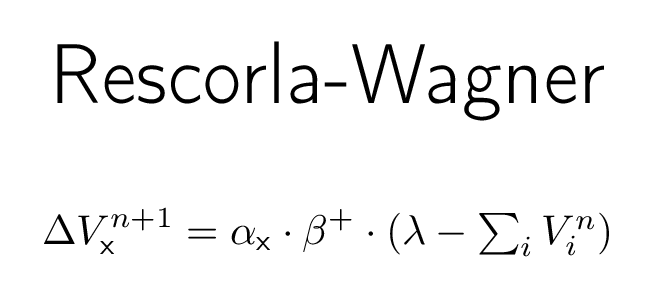
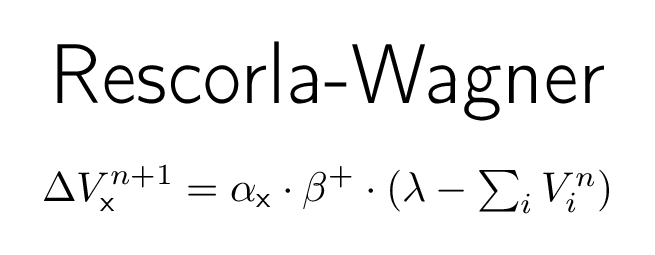
Changing LePelley to MackExtended and fixing some resources.

diff --git a/resources/LePelley.tex b/resources/LePelley.tex
@@ -1,4 +1,4 @@
-\documentclass[border=10pt,varwidth]{standalone}
+\documentclass[border=10pt,varwidth=14cm]{standalone}
 \usepackage[T1]{fontenc}
 \usepackage[utf8]{inputenc}
 \usepackage{amsmath}
@@ -11,37 +11,35 @@
 
 \begin{document}
 \newcommand{\eks}{\textsf{x}}
-\newcommand{\longlambda}{\rlap{$\,\lambda$}\phantom{\big| \rho \big|}}
+\newcommand{\longlambda}{\rlap{$\,\lambda$}\phantom{\left| \rho^n \right|}}
 \newcommand{\longI}{\rlap{$I$}\phantom{E}}
+\newcommand{\VNet}{\mathbb{V}}
 
 \begin{center}
 	\huge
 	\sffamily
 	Le~Pelley
 \end{center}
-
 \begin{gather*}
 	\begin{gathered}
-		\rho = \lambda - \textstyle\sum_i \left( V_i - \overline{V_i} \right) \\
+		\rho^n = \lambda - \textstyle\sum_i \left( V_i - \overline{V_i} \right) \\
 		\begin{aligned}
-			\Delta V_\eks^{n + 1} &= {\alpha^M_\eks}^n \cdot {\alpha^H_\eks}^n \cdot \beta^+ \cdot (1 - V_\eks^n + \overline{V_\eks^n}) \cdot \left| \rho \right| & \text{if } \rho \geq 0 \\
-			 \Delta \overline{V_\eks^{n + 1}} &= {\alpha^M_\eks}^n \cdot {\alpha^H_\eks}^n \cdot \beta^- \cdot (1 - \overline{V_\eks^n} + V_\eks^n) \cdot \left| \rho \right| & \text{if } \rho < 0
+			\Delta V_\eks^{n + 1} &= {\alpha^M_\eks}^n \cdot {\alpha^H_\eks}^n \cdot \beta^+ \cdot (1 - V_\eks^n + \overline{V_\eks^n}) \cdot \left| \rho^n \right| & \text{if } \rho^n \geq 0 \\
+			 \Delta \overline{V_\eks^{n + 1}} &= {\alpha^M_\eks}^n \cdot {\alpha^H_\eks}^n \cdot \beta^- \cdot (1 - \overline{V_\eks^n} + V_\eks^n) \cdot \left| \rho^n \right| & \text{if } \rho^n < 0
 		\end{aligned}
 	\end{gathered} \\[1em]
 	\begin{gathered}
 		{\alpha^M_\eks}^{n + 1} =
 			\begin{cases}
-				{\alpha^M_\eks}^n - \theta^E \cdot {\alpha^H_\eks}^n \cdot \left( \big| \longlambda - V_\eks^n \big| - \big| \longlambda - \textstyle\sum_i^{i \neq \eks} \left( V_\eks^n - \overline{V_\eks^n} \right) \big| \right) & \text{if } \rho > 0 \\[1ex]
-				 {\alpha^M_\eks}^n -\theta^{\longI} \cdot {\alpha^H_\eks}^n \cdot \left( \big| \big| \rho \big| - V_\eks^n \big| - \big| \big| \rho \big| - \textstyle\sum_i^{i \neq \eks} \left( V_i^n - \overline{V_i^n} \right) \big| \right) & \text{if } \rho < 0
+				{\alpha^M_\eks}^n - \theta^E \cdot {\alpha^H_\eks}^n \cdot \left( \left| \longlambda - V_\eks^n + \overline{V}_\eks^n \right| - \left| \longlambda - \textstyle\sum_i^{i \neq \eks} \left( - V_i^n + \overline{V_i^n} \right) \right| \right) & \text{if } \rho^n > 0 \\[1ex]
+				 {\alpha^M_\eks}^n -\theta^{\longI} \cdot {\alpha^H_\eks}^n \cdot \left( \left| \left| \rho^n \right| - \overline{V}_\eks^n + V_\eks^n \right| - \left| \left| \rho^n \right| - \textstyle\sum_i^{i \neq \eks} \left( - \overline{V_i^n} + V_i^n \right) \right| \right) & \text{if } \rho^n < 0
 			\end{cases} \\[1ex]
-			\begin{aligned}
-				{\alpha^H_\eks}^{n + 1} &= \gamma \cdot \left| \rho \right| + \left( 1 - \gamma \right) \cdot {\alpha^H_\eks}^{n} \\
-				V_\eks^{n + 1} &= \Delta V_\eks^{n + 1} - \Delta \overline{V_\eks^{n + 1}}
-			\end{aligned}
-	\end{gathered}
+				{\alpha^H_\eks}^{n + 1} = \gamma \cdot \left| \rho^n \right| + \left( 1 - \gamma \right) \cdot {\alpha^H_\eks}^{n}
+	\end{gathered} \\[1em]
+	\VNet{}_\eks^{n + 1} = V_\eks^{n + 1} - \overline{V_\eks^{n + 1}}
 \end{gather*}
 
-\nocite{LePelley2004}
+\nocite{lepelley}
 \bibliography{bibliography}
 
 \end{document}

diff --git a/resources/Extended_Mack.tex b/resources/Extended_Mack.tex
@@ -12,8 +12,9 @@
 
 \begin{document}
 \newcommand{\eks}{\textsf{x}}
-\newcommand{\longlambda}{\rlap{$\,\lambda$}\phantom{\left| \rho \right|}}
+\newcommand{\longlambda}{\rlap{$\,\lambda$}\phantom{\left| \rho^n \right|}}
 \newcommand{\longI}{\rlap{\textsubscript{I}}\phantom{\textsubscript{E}}}
+\newcommand{\VNet}{\mathbb{V}}
 
 \begin{center}
 	\huge
@@ -22,23 +23,18 @@
 \end{center}
 \begin{gather*}
 	\begin{aligned}
-		\rho &= \lambda - \left( \textstyle\sum_i V_i^{n - 1} - \textstyle\sum_i \overline{V_i^{n - 1}} \right)
-	\end{aligned} \\
-	\begin{aligned}
-		\Delta V_\eks^n &= \alpha_\eks^{n - 1} \cdot \beta^+ \cdot (1 - V_\eks^{n - 1} + \overline{V_\eks^{n - 1}}) \cdot \left| \rho \right| & \text{if } \rho > 0 \\
-		 \Delta \overline{V_\eks^n} &= \alpha_\eks^{n - 1} \cdot \beta^- \cdot (1 - \overline{V_\eks^{n - 1}} + V_\eks^{n - 1}) \cdot \left| \rho \right| & \text{if } \rho < 0
-	\end{aligned} \\
-	\Lambda^{n - 1}_\eks = \sum_{i \neq \eks} V^{n - 1}_i \qquad
-	\overline{\Lambda^{n - 1}_\eks} = \sum_{i \neq \eks} \overline{V^{n - 1}_i} \\
-	\alpha_\eks^n =
-		\begin{cases}
-			- \theta_E \cdot \left( \left| \longlambda{} - V^{n - 1}_\eks + \overline{V^{n - 1}_\eks} \right| - \left| \longlambda{} - \Lambda^{n - 1}_\eks + \overline{\Lambda^{n - 1}_\eks} \right| \right) &\text{if } \rho > 0 \\[1ex]
-			- \theta_{\longI{}} \cdot \left( \left| \left| \rho \right| - \overline{V^{n - 1}_\eks} + V^{n - 1}_\eks \right| - \left| \left| \rho \right| - \overline{\Lambda^{n - 1}_\eks} + \Lambda^{n - 1}_\eks \right| \right) &\text{if } \rho < 0
-		\end{cases} \\[1ex]
-	{V^{\text{\tiny\scshape NET}}}_\eks^n = V_\eks^n - \overline{V_\eks^n}
+		\Delta V_\eks^{n + 1} &= \alpha_\eks^n \cdot \beta^+ \cdot (1 - V_\eks^n + \overline{V_\eks^n}) \cdot \left| \rho^n \right| & \text{if } \rho^n \geq 0 \\
+		 \Delta \overline{V_\eks^{n + 1}} &= \alpha_\eks^n \cdot \beta^- \cdot (1 - \overline{V_\eks^n} + V_\eks^n) \cdot \left| \rho^n \right| & \text{if } \rho^n < 0\\
+         \rho^n &= \lambda - \left( \textstyle\sum_i V_i^n - \textstyle\sum_i \overline{V_i^n} \right) 
+	\end{aligned} \\[1em]
+	\alpha_\eks^{n + 1} = \begin{cases}
+		\alpha^n_\eks -\theta^E \cdot \left( \left| \longlambda - V_\eks^n + \overline{V_\eks^n} \right|- \left| \longlambda - \textstyle\sum_i^{i \neq \eks} \left( - V_i^n + \overline{V_i^n} \right) \right| \right) & \text{if } \rho^n > 0 \\[1ex]
+		\alpha^n_\eks -\theta\longI{} \cdot \left( \left| \left| \rho^n \right| - \overline{V_\eks^n} + V_\eks^n \right| - \left| \left| \rho^n \right| - \textstyle\sum_i^{i \neq \eks} \left( - \overline{V_i^n} + V_i^n \right) \right| \right) & \text{if } \rho^n < 0
+	\end{cases} \\[1em]
+	\VNet{}_\eks^{n + 1} =  V_\eks^{n + 1} - \overline{V_\eks^{n + 1}}
 \end{gather*}
 
-\nocite{mackintosh_original}
+\nocite{LePelley2004}
 \bibliography{bibliography}
 
 \end{document}

diff --git a/AdaptiveType.py b/AdaptiveType.py
@@ -45,7 +45,7 @@ class AdaptiveType:
             'Rescorla Wagner': RescorlaWagner,
             'Rescorla Wagner w/ Variable Learning Rate': RescorlaWagnerLinear,
             'Pearce Kaye Hall': PearceKayeHall,
-            'Mackintosh Extended': LePelley,
+            'Mackintosh Extended': MackExtended,
             'LePelley\'s Hybrid': LePelleyHybrid,
             # 'MLAB Hybrid': MlabHybrid,
         }
@@ -196,7 +196,7 @@ class PearceKayeHall(AdaptiveType):
         s.alpha = self.gamma * abs(rho) + (1 - self.gamma) * s.alpha
         s.assoc = s.Ve - s.Vi
 
-class LePelley(AdaptiveType):
+class MackExtended(AdaptiveType):
     image_filename: ClassVar[str] = 'Extended_Mack.png'
 
     @classmethod

diff --git a/resources/RW.tex b/resources/RW.tex
@@ -11,13 +11,12 @@
 \bibliographystyle{plain}
 
 \begin{document}
+\newcommand{\eks}{\textsf{x}}
 \begin{center}
 	\huge
 	\sffamily
 	Rescorla-Wagner
 \end{center}
-
-\newcommand{\eks}{\textsf{x}}
 \begin{equation*}
 	\Delta V_{\eks}^{n+1} =\alpha_\eks \cdot \beta^+ \cdot \left( \lambda - \textstyle\sum_i V_i^{n} \right)
 	\label{rw_deltaV}

diff --git a/resources/PKH.tex b/resources/PKH.tex
@@ -17,7 +17,6 @@
 	\sffamily
 	Pearce Kaye Hall
 \end{center}
-
 \begin{equation*}
 	\begin{gathered}
 		\rho = \lambda - \left( \textstyle\sum_i V_i^n - \textstyle\sum_i \overline{V_i^n} \right) \\[1ex]
